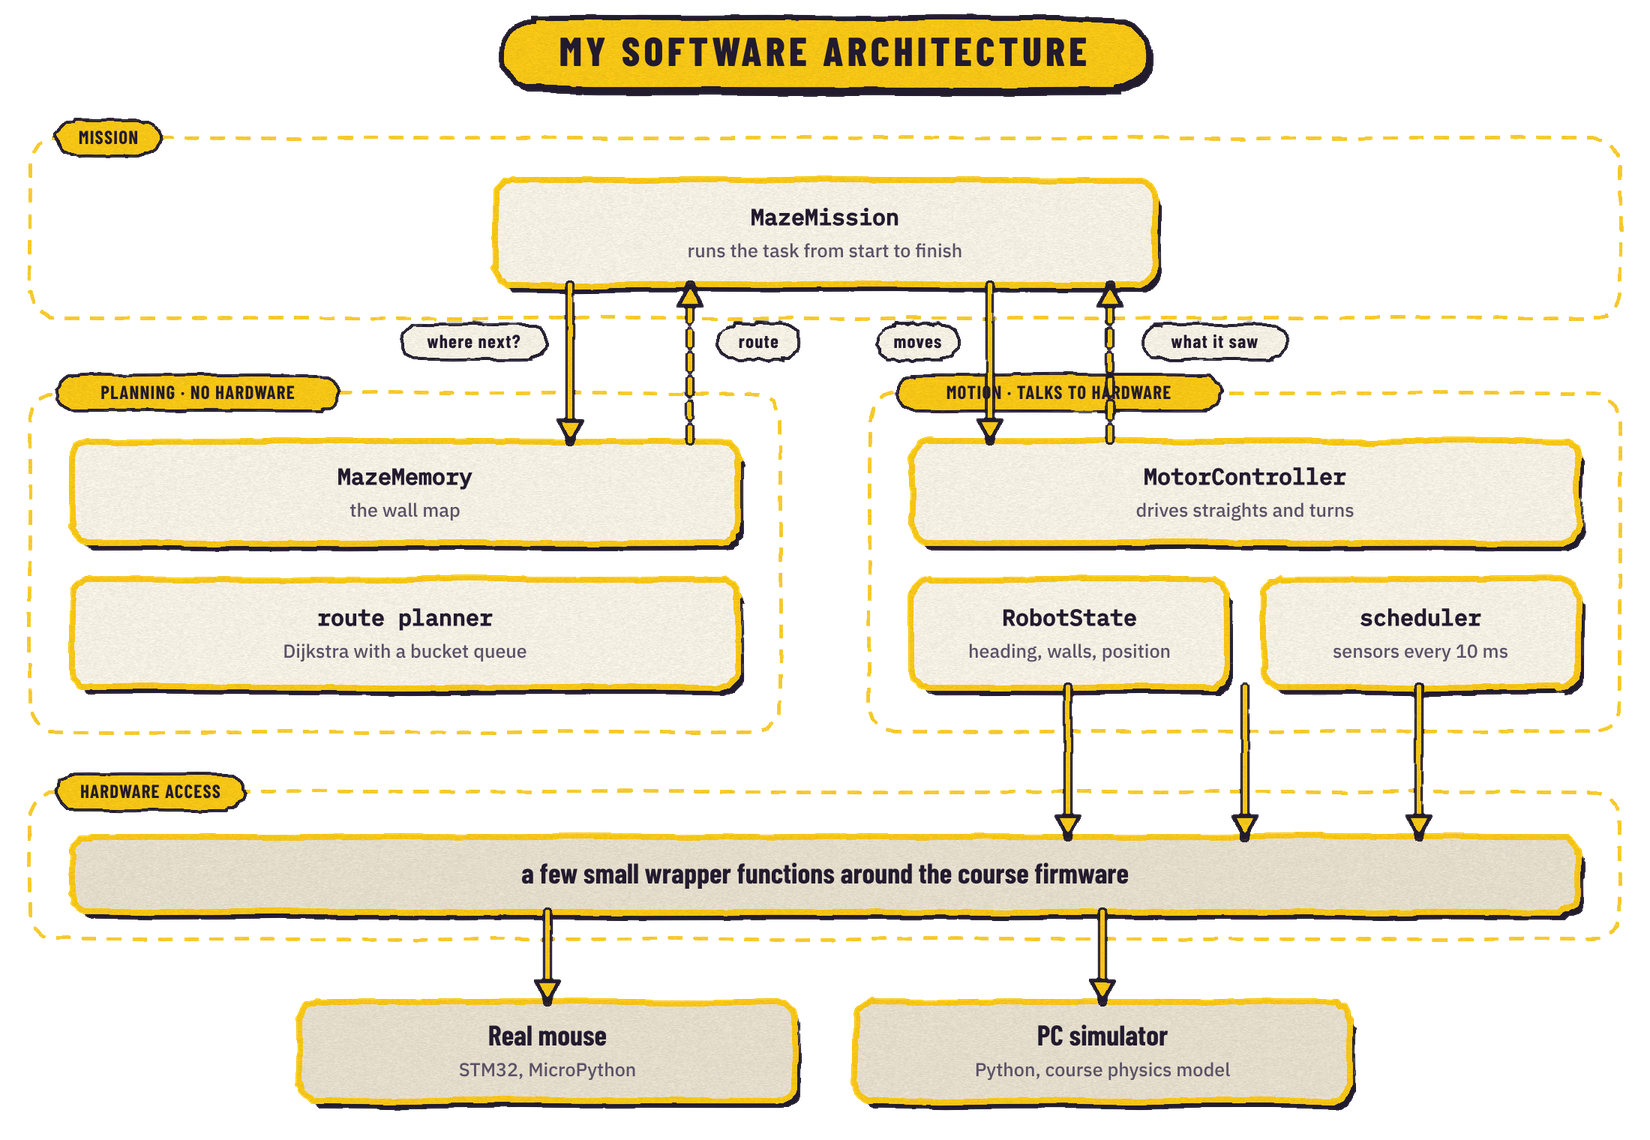
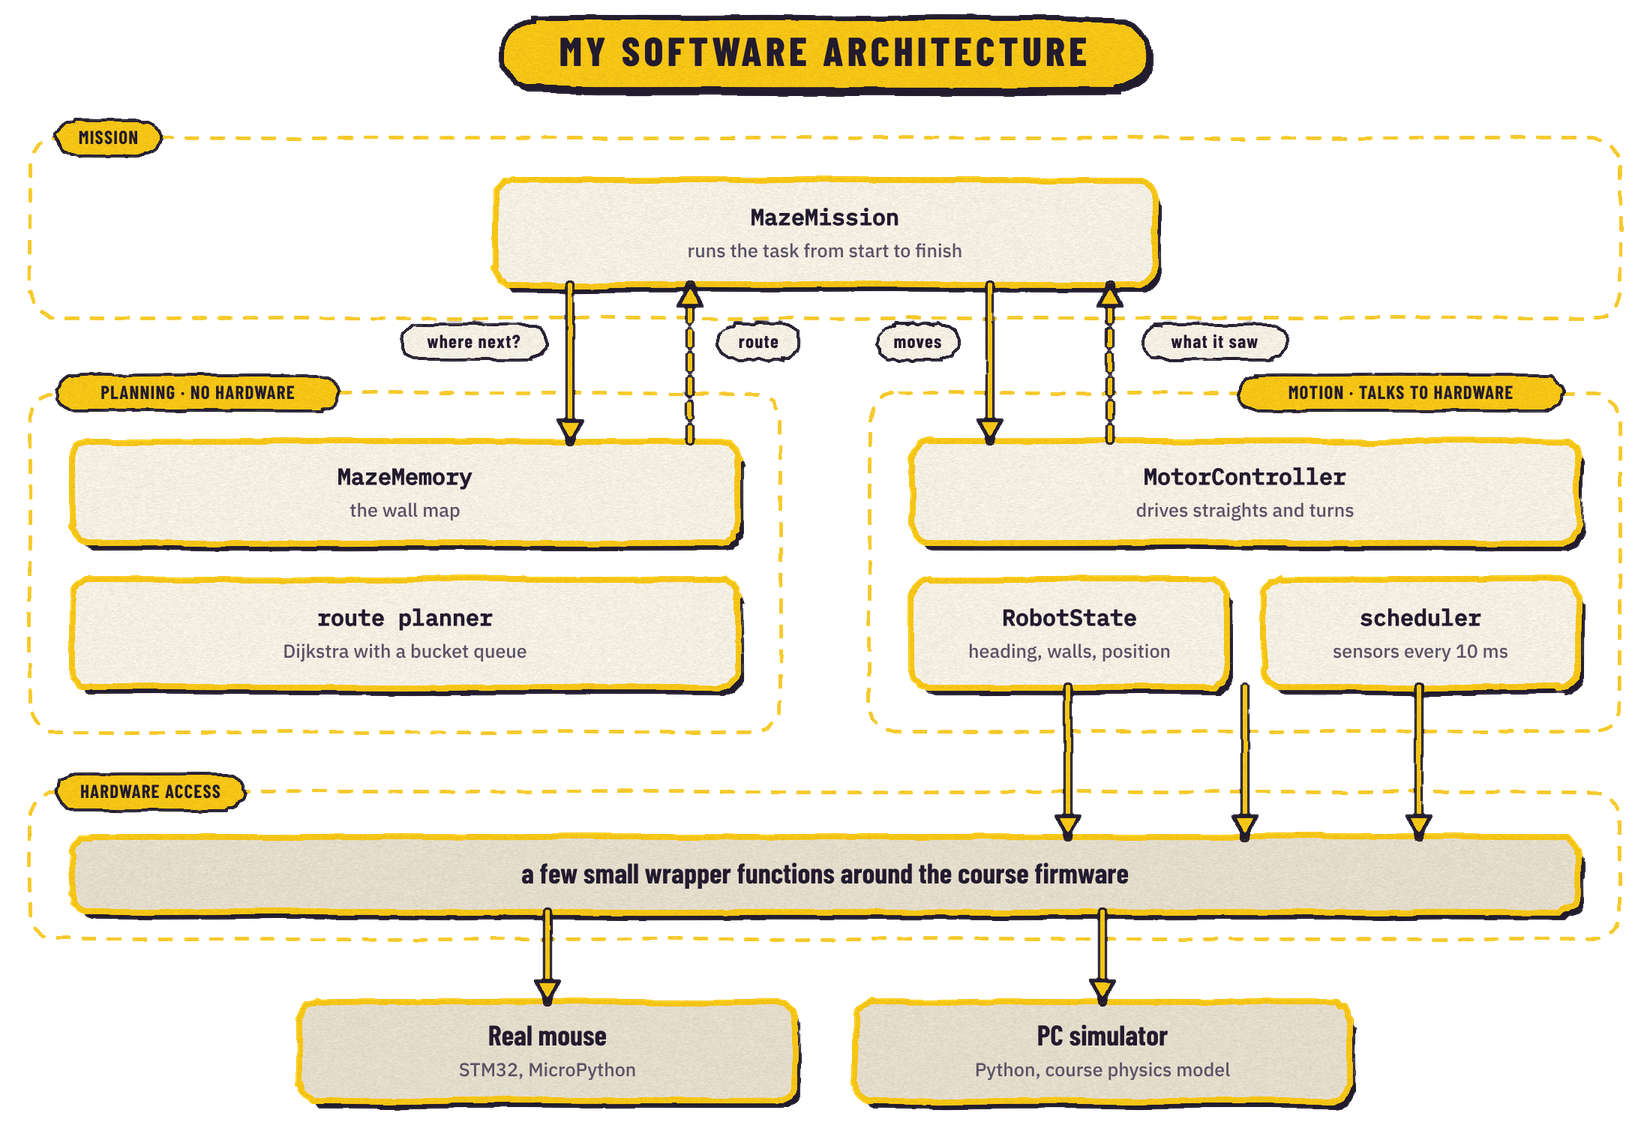
Clearer architecture label, scoring explained

Changed region(s): [[0.5255, 0.307, 0.9582, 0.3684]]

diff --git a/README.md b/README.md
@@ -310,7 +310,7 @@ The five test scores are then added up to a total out of 60.
   <br><i>Figure 12. My Gradescope results.</i>
 </p>
 
-My mouse got the full 90% for the mission on all five tests, with no collisions. It also got the full speedup bonus every time, because my sprint was about twice as fast as exploring. The only marks I lost were on the sprint speed bonus. My sprints ran at 0.199 to 0.229 m/s, which is about half way to the 0.30 m/s needed for the full bonus. That is why each test sits at 97% or 98% instead of 100%.
+My mouse got the full 90% for the mission on all five tests, with no collisions. It also got the full speedup bonus every time, because my sprint was about twice as fast as exploring. The only marks I lost were on the sprint speed bonus. My sprints ran at 0.199 to 0.229 m/s, which is only a third to a half of the way from 0.15 to the 0.30 m/s needed for the full bonus. That is why each test sits at 97% or 98% instead of 100%.
 
 On my real mouse, every turn settled within ±1.7 degrees of its target. The pirouette measured -358 degrees on the gyro, so it ended 0.7 degrees short of a perfect full circle.
 
